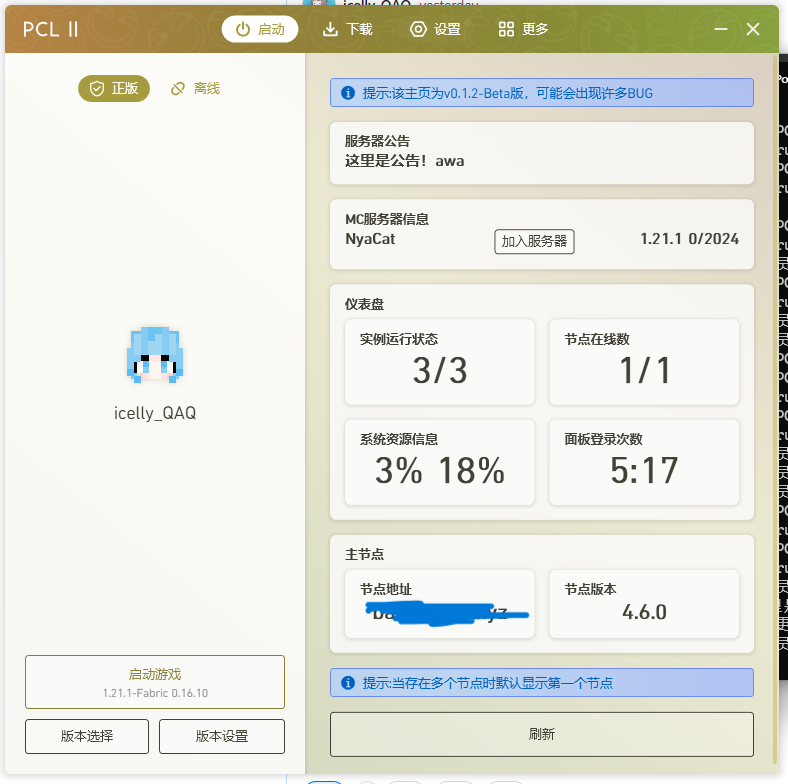
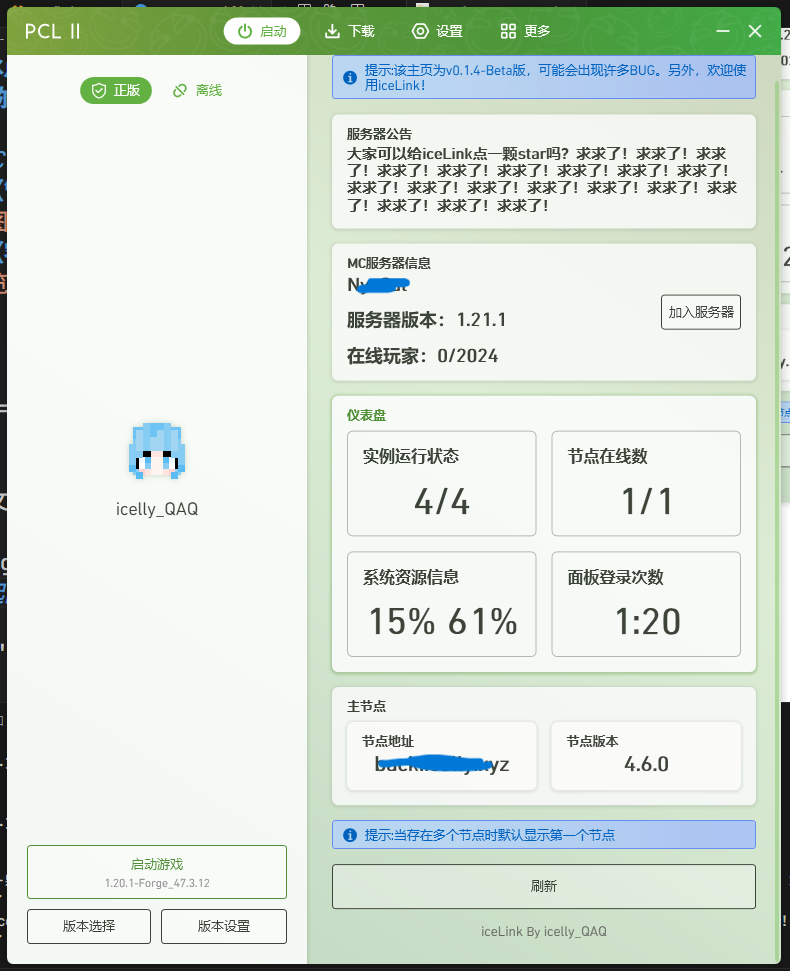
v0.1.4
修改了部分布局，修复了重启服务后公告丢失的问题

diff --git a/app.js b/app.js
@@ -170,11 +170,11 @@ async function serveradmin(request) {
 </local:MyCard>
 `
 } else {
-    serverNotice_xml = ``  // 修改这里：将 serverInfo_xml 改为 serverNotice_xml
+    serverNotice_xml = ``
 }
 
 // 初始化服务器信息变量
-let serverInfo_xml = '';  // 添加这一行：在条件判断前初始化 serverInfo_xml
+let serverInfo_xml = '';
 
         // 仅当 serverIP 存在时才获取并插入服务器信息
         if (serverConfig.serverIP) {
@@ -185,39 +185,58 @@ let serverInfo_xml = '';  // 添加这一行：在条件判断前初始化 serve
             
             // 计算玩家数量字符串的长度并添加额外的15px
             const playerCountString = `${playersOnline}/${playersMax}`;
-            const marginRight = playerCountString.length * 10 + 12; // 假设每个字符约10px宽
+            const marginRight = playerCountString.length * 10 + 28; // 假设每个字符约10px宽
             
             serverInfo_xml = `
 <local:MyCard Title="MC服务器信息" Margin="0,0,0,15">
-    <TextBlock 
-        Text="${serverConfig.serverName}"
-        FontSize="15"
-        FontWeight="Bold"
-        HorizontalAlignment="Left"
-        VerticalAlignment="Top"
-        Margin="15,30,0,15"/>
-    <local:MyButton Text="加入服务器" Margin="0,30,15,15" EventType="启动游戏" EventData="\\current|${serverConfig.serverIP}" ToolTip="将会以当前版本加入${serverConfig.serverIP}" Height="25" Width="80"/>  
-    <TextBlock 
-        Text="${protocolName}"
-        FontSize="15"
-        FontWeight="Bold"
-        HorizontalAlignment="Right"
-        VerticalAlignment="Top"
-        Margin="0,30,${marginRight},15"/>
-    <TextBlock 
-        Text="${playerCountString}"
-        FontSize="15"
-        FontWeight="Bold"
-        HorizontalAlignment="Right"
-        VerticalAlignment="Top"
-        Margin="0,30,15,15"/>
+    <Grid>
+        <Grid.ColumnDefinitions>
+            <ColumnDefinition Width="*"/>
+            <ColumnDefinition Width="Auto"/>
+        </Grid.ColumnDefinitions>
+        
+        <StackPanel Grid.Column="0">
+            <TextBlock 
+                Text="${serverConfig.serverName}"
+                FontSize="18"
+                FontWeight="Bold"
+                HorizontalAlignment="Left"
+                VerticalAlignment="Top"
+                Margin="15,30,0,15"/>  
+            <TextBlock 
+                Text="服务器版本：${protocolName}"
+                FontSize="18"
+                FontWeight="Bold"
+                HorizontalAlignment="Left"
+                VerticalAlignment="Top"
+                Margin="15,0,${marginRight},15"/>
+            <TextBlock 
+                Text="在线玩家：${playerCountString}"
+                FontSize="18"
+                FontWeight="Bold"
+                HorizontalAlignment="Left"
+                VerticalAlignment="Top"
+                Margin="15,0,15,15"/>
+        </StackPanel>
+        
+        <local:MyButton 
+            Grid.Column="1"
+            Text="加入服务器" 
+            Margin="0,0,15,0" 
+            EventType="启动游戏" 
+            EventData="\\current|${serverConfig.serverIP}" 
+            ToolTip="将会以当前版本加入${serverConfig.serverIP}" 
+            Height="35" 
+            Width="80"
+            VerticalAlignment="Center"/>
+    </Grid>
 </local:MyCard>
 `
         }
         
         // 使用模板字符串构建XML，使用API返回的数据
         const xml = `
-<local:MyHint Text="提示:该主页为v0.1.4-Beta版，可能会出现许多BUG。另外，欢迎使用蓝冰主页！" Margin="0,0,0,15" IsWarn="False"/>
+<local:MyHint Text="提示:该主页为v0.1.4-Beta版，可能会出现许多BUG。另外，欢迎使用iceLink！" Margin="0,0,0,15" IsWarn="False"/>
 
 ${serverNotice_xml}
 ${serverInfo_xml}
@@ -341,6 +360,12 @@ ${serverInfo_xml}
 <local:MyHint Text="提示:当存在多个节点时默认显示第一个节点" Margin="0,0,0,15" IsWarn="False"/>
 
 <local:MyButton Text="刷新" Margin="0,0,0,15" EventType="刷新主页" Height="45"/>
+
+<StackPanel Orientation="Horizontal" HorizontalAlignment="Center" Margin="0,0,0,15">
+    <local:MyTextButton Text="iceLink" EventType="打开网页" EventData="https://github.com/icelly-QAQ/PCL2-HomePage_iceLink" FontSize="12" Foreground="#666666"/>
+    <TextBlock Text=" By " Foreground="#666666" FontSize="12"/>
+    <local:MyTextButton Text="icelly_QAQ" EventType="打开网页" EventData="https://github.com/icelly-QAQ" FontSize="12" Foreground="#666666"/>
+</StackPanel>
 `;
 
         return new Response(xml, {
@@ -401,42 +426,65 @@ let serverInfo_xml = '';  // 添加这一行：在条件判断前初始化 serve
             
             serverInfo_xml = `
 <local:MyCard Title="MC服务器信息" Margin="0,0,0,15">
-    <TextBlock 
-        Text="${serverConfig.serverName}"
-        FontSize="15"
-        FontWeight="Bold"
-        HorizontalAlignment="Left"
-        VerticalAlignment="Top"
-        Margin="15,30,0,15"/>
-    <local:MyButton Text="加入服务器" Margin="0,30,15,15" EventType="启动游戏" EventData="\\current|${serverConfig.serverIP}" ToolTip="将会以当前版本加入${serverConfig.serverIP}" Height="25" Width="80"/>  
-    <TextBlock 
-        Text="${protocolName}"
-        FontSize="15"
-        FontWeight="Bold"
-        HorizontalAlignment="Right"
-        VerticalAlignment="Top"
-        Margin="0,30,${marginRight},15"/>
-    <TextBlock 
-        Text="${playerCountString}"
-        FontSize="15"
-        FontWeight="Bold"
-        HorizontalAlignment="Right"
-        VerticalAlignment="Top"
-        Margin="0,30,15,15"/>
+    <Grid>
+        <Grid.ColumnDefinitions>
+            <ColumnDefinition Width="*"/>
+            <ColumnDefinition Width="Auto"/>
+        </Grid.ColumnDefinitions>
+        
+        <StackPanel Grid.Column="0">
+            <TextBlock 
+                Text="${serverConfig.serverName}"
+                FontSize="17"
+                FontWeight="Bold"
+                HorizontalAlignment="Left"
+                VerticalAlignment="Top"
+                Margin="15,30,0,15"/>  
+            <TextBlock 
+                Text="服务器版本：${protocolName}"
+                FontSize="17"
+                FontWeight="Bold"
+                HorizontalAlignment="Left"
+                VerticalAlignment="Top"
+                Margin="15,0,${marginRight},15"/>
+            <TextBlock 
+                Text="在线玩家：${playerCountString}"
+                FontSize="17"
+                FontWeight="Bold"
+                HorizontalAlignment="Left"
+                VerticalAlignment="Top"
+                Margin="15,0,15,15"/>
+        </StackPanel>
+        
+        <local:MyButton 
+            Grid.Column="1"
+            Text="加入服务器" 
+            Margin="0,0,15,0" 
+            EventType="启动游戏" 
+            EventData="\\current|${serverConfig.serverIP}" 
+            ToolTip="将会以当前版本加入${serverConfig.serverIP}" 
+            Height="35" 
+            Width="80"
+            VerticalAlignment="Center"/>
+    </Grid>
 </local:MyCard>
 `
         }
         
         // 使用模板字符串构建XML，使用API返回的数据
         const xml = `
-<local:MyHint Text="提示:该主页为v0.1.2-Beta版，可能会出现许多BUG。另外，欢迎使用蓝冰主页！" Margin="0,0,0,15" IsWarn="False"/>
+<local:MyHint Text="提示:该主页为v0.1.4-Beta版，可能会出现许多BUG。另外，欢迎使用蓝冰主页！" Margin="0,0,0,15" IsWarn="False"/>
 
 ${serverNotice_xml}
 ${serverInfo_xml}
 
 <local:MyButton Text="刷新" Margin="0,0,0,15" EventType="刷新主页" Height="45"/>
 
-<local:MyHint Text="这里是客户端awa" Margin="0,0,0,15" IsWarn="False"/>
+<StackPanel Orientation="Horizontal" HorizontalAlignment="Center" Margin="0,0,0,15">
+    <local:MyTextButton Text="iceLink" EventType="打开网页" EventData="https://github.com/icelly-QAQ/PCL2-HomePage_iceLink" FontSize="12" Foreground="#666666"/>
+    <TextBlock Text=" By " Foreground="#666666" FontSize="12"/>
+    <local:MyTextButton Text="icelly_QAQ" EventType="打开网页" EventData="https://github.com/icelly-QAQ" FontSize="12" Foreground="#666666"/>
+</StackPanel>
 `;
 
         return new Response(xml, {
@@ -487,7 +535,7 @@ const server = http.createServer(async (req, res) => {
 // 监听端口3000
 const PORT = process.env.PORT || 3000;
 server.listen(PORT, () => {
-    console.log(`Server is running on port ${PORT}`);
+    console.log(`服务正在[ ${PORT} ]端口运行`);
 });
 
 // 监听控制台输入

diff --git a/README.md b/README.md
@@ -1,4 +1,4 @@
-# 让你的PCL2可以监控MCSM！（待定）
+# iceLink 冰点链接 - 简单，快速地通过PCL2主页了解你的服务器
 
 ***该项目为PCL2的主页预设***
 #### 预览图（管理端）
@@ -12,7 +12,8 @@
 
 ### 部署
 1. 下载 js 文件
-2. 修改文件开头的配置
+2. 运行 node app.js 生成默认配置文件
+3. 修改 config.json 内的配置 （***“注意：下方未提起的配置项请不要随意修改”***）
 ```
 const ip = "xxxxx";      修改为你面板的地址
 const apikey ="xxxxx";   修改为你的apikey
@@ -28,17 +29,19 @@ const serverConfig = {
     serverPORT: ""   // 服务器端口(可留空，默认为25565)
 }
 ```
-3. 运行
+4. 运行
 ```
 node app.js
 如果需要指定端口运行则
 set PORT=xxxx node app.js （xxxx为你要指定的端口）
 ```
 
-4. 使用
+5. 使用
 目前拥有的命令：
 ```
 notice <公告>     用于设置公告
+
+exit       还用说吗，当然是退出啦
 ```
 
 #### 如何区分管理端和客户端：
